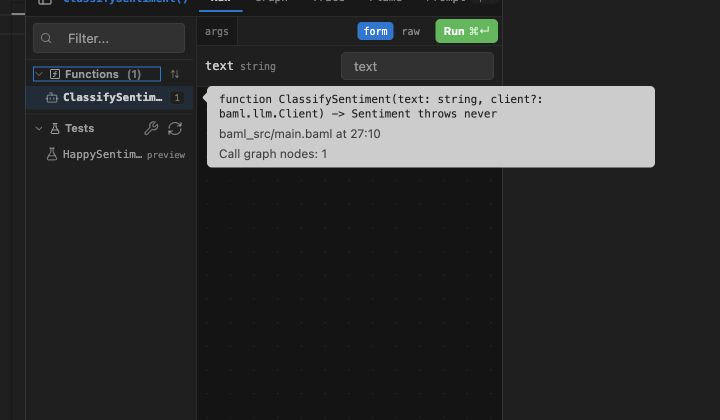
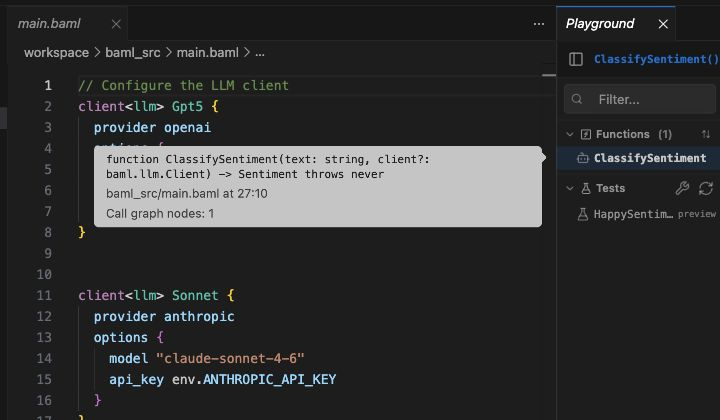
refine playground function sorting and badges

diff --git a/typescript2/app-vscode-webview/src/FunctionSidebar.interaction.test.tsx b/typescript2/app-vscode-webview/src/FunctionSidebar.interaction.test.tsx
@@ -1,6 +1,6 @@
 // biome-ignore-all lint/style/useFilenamingConvention: Preserve the existing test filename.
 
-import { fireEvent, render, screen } from '@testing-library/react';
+import { fireEvent, render, screen, within } from '@testing-library/react';
 import { useState } from 'react';
 import { afterAll, beforeAll, describe, expect, it, vi } from 'vitest';
 
@@ -78,6 +78,7 @@ describe('FunctionSidebar function details and sorting', () => {
         onSelectFn={vi.fn()}
         selectedFn={null}
         showInternalFunctions
+        workflowNodeCounts={new Map([['BuiltIn', 12]])}
       />,
     );
 
@@ -86,6 +87,9 @@ describe('FunctionSidebar function details and sorting', () => {
     expect(screen.getByRole('button', { name: 'BuiltIn' })).toBeInTheDocument();
     expect(
       screen.queryByRole('button', { name: 'BuiltIn internal' }),
+    ).not.toBeInTheDocument();
+    expect(
+      screen.queryByRole('button', { name: 'BuiltIn 12' }),
     ).not.toBeInTheDocument();
   });
 
@@ -128,7 +132,10 @@ describe('FunctionSidebar function details and sorting', () => {
     render(<FunctionDetailsHarness />);
 
     fireEvent.click(screen.getByRole('button', { name: 'Functions (3)' }));
-    fireEvent.pointerMove(screen.getByRole('button', { name: 'Alpha' }), {
+    const alphaRow = screen.getByRole('button', { name: 'Alpha' });
+    expect(within(alphaRow).queryByText('1')).not.toBeInTheDocument();
+
+    fireEvent.pointerMove(alphaRow, {
       pointerType: 'mouse',
     });
 
@@ -144,23 +151,42 @@ describe('FunctionSidebar function details and sorting', () => {
     );
   });
 
-  it('defaults to node count and switches deterministically to alphabetical', () => {
-    render(<FunctionDetailsHarness />);
+  it('defaults to node count and switches to natural alphanumeric order', () => {
+    render(<NaturalSortHarness />);
 
-    fireEvent.click(screen.getByRole('button', { name: 'Functions (3)' }));
-    expect(functionRows()).toEqual(['Zulu', 'Middle', 'Alpha']);
+    fireEvent.click(screen.getByRole('button', { name: 'Functions (4)' }));
+    expect(
+      functionRows(['Function1', 'function2', 'Function2', 'Function10']),
+    ).toEqual(['Function10', 'Function2', 'Function1', 'function2']);
 
     fireEvent.click(
       screen.getByRole('button', {
         name: 'Sort order: Call graph node count',
       }),
     );
-    fireEvent.click(screen.getByRole('radio', { name: 'Alphabetical' }));
+    fireEvent.click(screen.getByRole('radio', { name: 'Alphanumeric' }));
 
     expect(
-      screen.getByRole('button', { name: 'Sort order: Alphabetical' }),
+      screen.getByRole('button', { name: 'Sort order: Alphanumeric' }),
     ).toBeInTheDocument();
-    expect(functionRows()).toEqual(['Alpha', 'Middle', 'Zulu']);
+    expect(
+      functionRows(['Function1', 'function2', 'Function2', 'Function10']),
+    ).toEqual(['Function1', 'function2', 'Function2', 'Function10']);
+  });
+
+  it('does not render a one-node badge but keeps its tooltip and sort value', async () => {
+    render(<FunctionDetailsHarness />);
+
+    fireEvent.click(screen.getByRole('button', { name: 'Functions (3)' }));
+    expect(functionRows()).toEqual(['Zulu', 'Middle', 'Alpha']);
+
+    const alphaRow = screen.getByRole('button', { name: 'Alpha' });
+    expect(within(alphaRow).queryByText('1')).not.toBeInTheDocument();
+    fireEvent.focus(alphaRow);
+
+    expect(
+      (await screen.findAllByText('Call graph nodes: 1')).length,
+    ).toBeGreaterThan(0);
   });
 
   it('keeps the selected sort order across mounted project updates', () => {
@@ -172,12 +198,12 @@ describe('FunctionSidebar function details and sorting', () => {
         name: 'Sort order: Call graph node count',
       }),
     );
-    fireEvent.click(screen.getByRole('radio', { name: 'Alphabetical' }));
+    fireEvent.click(screen.getByRole('radio', { name: 'Alphanumeric' }));
 
     rerender(<FunctionDetailsHarness projectVersion={2} />);
 
     expect(
-      screen.getByRole('button', { name: 'Sort order: Alphabetical' }),
+      screen.getByRole('button', { name: 'Sort order: Alphanumeric' }),
     ).toBeInTheDocument();
     expect(functionRows(['Alpha', 'Beta', 'Middle', 'Zulu'])).toEqual([
       'Alpha',
@@ -204,6 +230,44 @@ function SidebarHarness() {
       showInternalFunctions={false}
     />
   );
+}
+
+function NaturalSortHarness() {
+  const functions = [
+    functionDetails('Function10'),
+    functionDetails('function2'),
+    functionDetails('Function2'),
+    functionDetails('Function1'),
+  ];
+
+  return (
+    <FunctionSidebar
+      functions={functions}
+      internalFunctionCount={0}
+      onRefreshTests={vi.fn()}
+      onSelectFn={vi.fn()}
+      selectedFn={null}
+      showInternalFunctions={false}
+      workflowNodeCounts={
+        new Map([
+          ['Function10', 20],
+          ['function2', 1],
+          ['Function2', 10],
+          ['Function1', 5],
+        ])
+      }
+    />
+  );
+}
+
+function functionDetails(name: string) {
+  return {
+    kind: 'expr' as const,
+    name,
+    origin: 'userDefined' as const,
+    signature: `function ${name}() -> null throws never`,
+    sourcePosition: { column: 10, file: 'baml_src/main.baml', line: 1 },
+  };
 }
 
 function FunctionDetailsHarness({

diff --git a/typescript2/pkg-playground/src/FunctionSidebar.tsx b/typescript2/pkg-playground/src/FunctionSidebar.tsx
@@ -386,16 +386,18 @@ function FunctionTreeNode({
           >
             <Icon className={SIDEBAR_LEAF_ICON_CLASS} />
             <span className="truncate">{node.label}</span>
-            {(node.workflowNodeCount != null || isInternal) && (
+            {((node.workflowNodeCount != null && node.workflowNodeCount > 1) ||
+              isInternal) && (
               <span className="ml-auto flex shrink-0 items-center gap-1">
-                {node.workflowNodeCount != null && (
-                  <span
-                    aria-hidden="true"
-                    className="rounded border border-vsc-border bg-vsc-bg-secondary px-1 py-0 text-[9px] font-normal tabular-nums text-vsc-text-faint"
-                  >
-                    {node.workflowNodeCount}
-                  </span>
-                )}
+                {node.workflowNodeCount != null &&
+                  node.workflowNodeCount > 1 && (
+                    <span
+                      aria-hidden="true"
+                      className="rounded border border-vsc-border bg-vsc-bg-secondary px-1 py-0 text-[9px] font-normal tabular-nums text-vsc-text-faint"
+                    >
+                      {node.workflowNodeCount}
+                    </span>
+                  )}
                 {isInternal && (
                   <span
                     aria-hidden="true"
@@ -551,7 +553,7 @@ export const FunctionSidebar: FC<FunctionSidebarProps> = ({
                       aria-label={`Sort order: ${
                         functionSortOrder === 'workflowNodeCount'
                           ? 'Call graph node count'
-                          : 'Alphabetical'
+                          : 'Alphanumeric'
                       }`}
                       className="inline-flex h-5 w-5 shrink-0 items-center justify-center rounded-md text-vsc-text-faint outline-none transition-colors hover:bg-vsc-hover hover:text-vsc-text focus-visible:ring-2 focus-visible:ring-ring/50"
                       onClick={() => setShowFunctionSortMenu((value) => !value)}
@@ -578,7 +580,7 @@ export const FunctionSidebar: FC<FunctionSidebarProps> = ({
                       {(
                         [
                           ['workflowNodeCount', 'Call graph node count'],
-                          ['alphabetical', 'Alphabetical'],
+                          ['alphanumeric', 'Alphanumeric'],
                         ] satisfies Array<[FunctionSortOrder, string]>
                       ).map(([value, label]) => (
                         <label

diff --git a/typescript2/pkg-playground/src/function-sidebar-workflow-size.test.ts b/typescript2/pkg-playground/src/function-sidebar-workflow-size.test.ts
@@ -49,21 +49,32 @@ describe('function sidebar workflow size', () => {
     expect(functionNode(tree.nodes, 'ManyNodes').workflowNodeCount).toBe(12);
   });
 
-  it('sorts alphabetically when requested without hiding node counts', () => {
+  it('sorts naturally by alphanumeric name while preserving source-order ties', () => {
     const tree = buildFunctionSidebarTree(
-      [functionInfo('Zulu'), functionInfo('Alpha'), functionInfo('Middle')],
+      [
+        functionInfo('Function10'),
+        functionInfo('function2'),
+        functionInfo('Function2'),
+        functionInfo('Function1'),
+      ],
       {
-        sortOrder: 'alphabetical',
+        sortOrder: 'alphanumeric',
         workflowNodeCounts: new Map([
-          ['Zulu', 20],
-          ['Alpha', 1],
-          ['Middle', 10],
+          ['Function10', 20],
+          ['function2', 1],
+          ['Function2', 10],
+          ['Function1', 5],
         ]),
       },
     );
 
-    expect(tree.nodes.map(nodeLabel)).toEqual(['Alpha', 'Middle', 'Zulu']);
-    expect(functionNode(tree.nodes, 'Zulu').workflowNodeCount).toBe(20);
+    expect(tree.nodes.map(nodeLabel)).toEqual([
+      'Function1',
+      'function2',
+      'Function2',
+      'Function10',
+    ]);
+    expect(functionNode(tree.nodes, 'Function10').workflowNodeCount).toBe(20);
   });
 });
 

diff --git a/typescript2/pkg-playground/src/function-sidebar-tree.ts b/typescript2/pkg-playground/src/function-sidebar-tree.ts
@@ -28,7 +28,12 @@ export type FunctionSidebarTree = {
   forcedOpenFolderKeys: Set<string>;
 };
 
-export type FunctionSortOrder = 'alphabetical' | 'workflowNodeCount';
+export type FunctionSortOrder = 'alphanumeric' | 'workflowNodeCount';
+
+const naturalFunctionNameCollator = new Intl.Collator('en', {
+  numeric: true,
+  sensitivity: 'base',
+});
 
 type MutableFolderNode = Omit<FunctionSidebarFolderNode, 'children'> & {
   children: Array<FunctionSidebarTreeNode | MutableFolderNode>;
@@ -57,10 +62,13 @@ export function buildFunctionSidebarTree(
   const sortedFunctions = functions
     .map((functionInfo, index) => ({ functionInfo, index }))
     .sort((a, b) => {
-      if (sortOrder === 'alphabetical') {
-        if (a.functionInfo.name < b.functionInfo.name) return -1;
-        if (a.functionInfo.name > b.functionInfo.name) return 1;
-        return a.index - b.index;
+      if (sortOrder === 'alphanumeric') {
+        return (
+          naturalFunctionNameCollator.compare(
+            a.functionInfo.name,
+            b.functionInfo.name,
+          ) || a.index - b.index
+        );
       }
       if (!workflowNodeCounts) return a.index - b.index;
       return (
